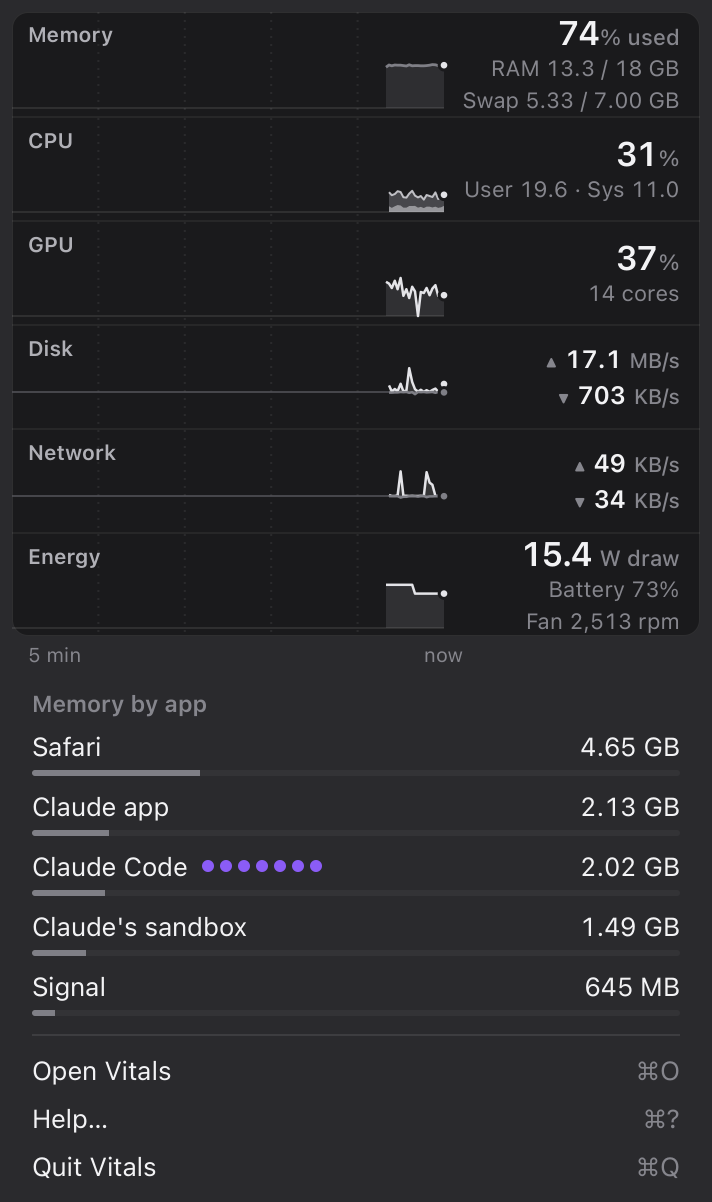
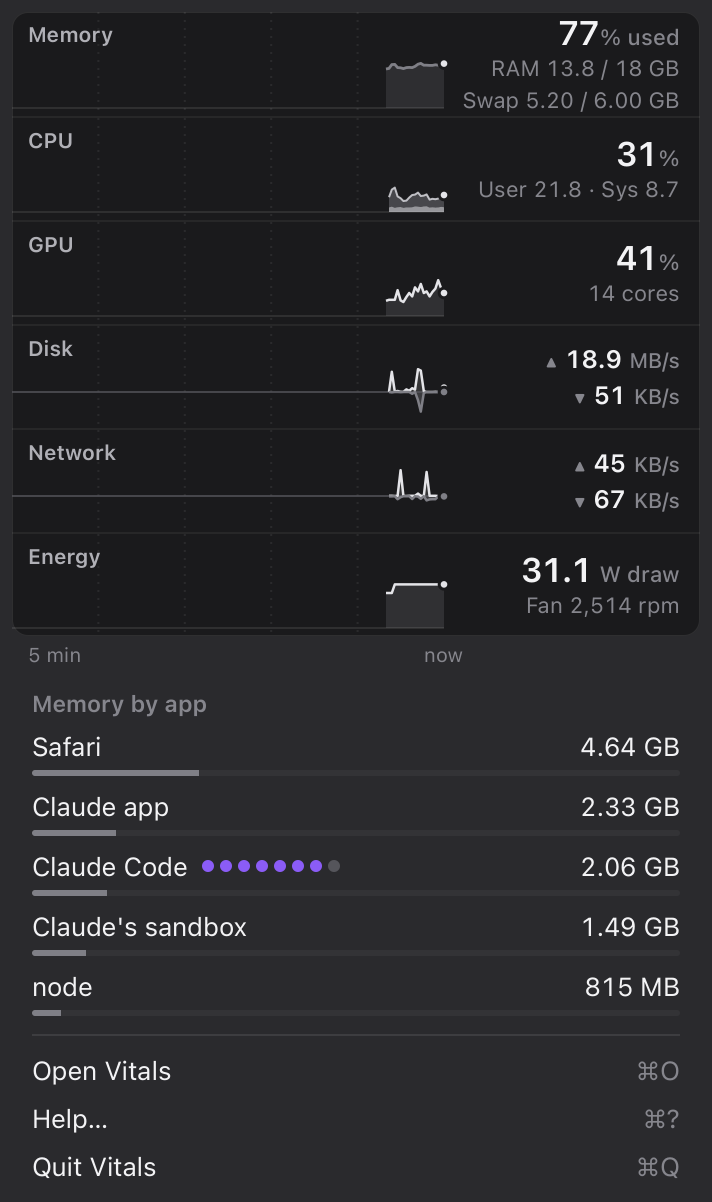
Popover: drop the battery line from the Energy row
macOS's own menu bar icon already shows battery %. The row reads
"W draw" then the fan. The window keeps the battery details.

diff --git a/Resources/popover.html b/Resources/popover.html
@@ -100,11 +100,10 @@ hr{border:0;border-top:1px solid var(--line);margin:5px 10px}
     set("r-disk", two(V.now(d.readBps, L.diskReadBps), V.now(d.writeBps, L.diskWriteBps)));
     set("r-net", two(V.now(n.inBps, L.netInBps), V.now(n.outBps, L.netOutBps)));
     // watts with a battery; the energy impact score on Macs without one
-    // like the Memory row: the label rides on the big number ("W draw"), then battery and fan on a line each
-    // (fan only where it can be read; "off" when it isn't spinning)
+    // the label rides on the big number ("W draw", like Memory's "% used"), then the fan (only where it can be
+    // read; "off" when it isn't spinning). No battery line: macOS's own menu bar icon already shows it.
     var useW = V.useWatts(s, L), pw = useW ? V.now(e.watts, L.powerW) : V.now(e.impact, L.energyImpact);
     set("r-energy", "<b>" + (isNum(pw) ? pw.toFixed(1) : "–") + "<small>" + (useW ? " W draw" : " score") + "</small></b>" +
-      (isNum(e.batteryPct) ? "<span>Battery " + F.pct(e.batteryPct) + "%</span>" : "") +
       (isNum(e.fanRPM) ? "<span>Fan " + (e.fanRPM > 0 ? F.int(e.fanRPM) + " rpm" : "off") + "</span>" : ""));
 
     var tot5 = m.totalBytes || h.memBytes || 1;

diff --git a/README.md b/README.md
@@ -8,8 +8,8 @@ A menu bar app that shows what Activity Monitor shows, with every stat up front 
   drive and an amber or red dot. Battery is left to the system's own icon. Preview: `docs/shots/menubar-states-{light,dark}.png`
   (`Vitals --render menubar <out.png> [light|dark]`).
 - **Click it** to open a popover with the short version (Memory reads % used, RAM used / total and swap used / total, in GB of 1024³ like Activity Monitor;
-  Energy reads the whole Mac's power draw in watts ("W draw"), from the battery's own meter, then battery % and fan
-  speed (rpm, or "off"; left out on Macs with no readable fan). Macs without a battery show the
+  Energy reads the whole Mac's power draw in watts ("W draw"), from the battery's own meter, then fan speed (rpm,
+  or "off"; left out on Macs with no readable fan). No battery % there: macOS's own icon shows it. Macs without a battery show the
   energy impact score there instead: no unit, 100 ≈ one CPU core fully busy, the same score as the app list's Energy column). **⌃⌥⌘V** (or Open Vitals, ⌘O) opens the full window.
 - **Right-click or ⌃-click** it for Open at Login (if macOS wants your OK, it opens Login Items in System Settings),
   Help and Quit. If another app already holds ⌃⌥⌘V, that menu says so.

diff --git a/HANDOFF.md b/HANDOFF.md
@@ -3,6 +3,10 @@
 _Last updated 2026-10-31 by Claude: Energy card shows real watts (Vinnie's pick), committed ad9b10c on `main`, pushed,
 installed and relaunched in the background 2026-10-31 19:49 on his "commit push and ship please"._
 
+## 2026-10-31: battery % out of the popover (Vinnie: he has it in the menu bar already; shipped on his "ship it")
+- `Resources/popover.html` Energy row is now "24.7 W draw" then "Fan 2,495 rpm" / "Fan off". The window still shows
+  battery, time left, health and cycles. Popover doc shots re-rendered.
+
 ## 2026-10-31: fan speed in the popover (Vinnie: "ship it"; committed, pushed, installed)
 - Vinnie asked for fan speed in the popover without making it busier. `Resources/popover.html` Energy row: big
   "24.7 W draw" (the label rides on the number like Memory's "% used"), then "Battery 75%", then "Fan 2,495 rpm" /
